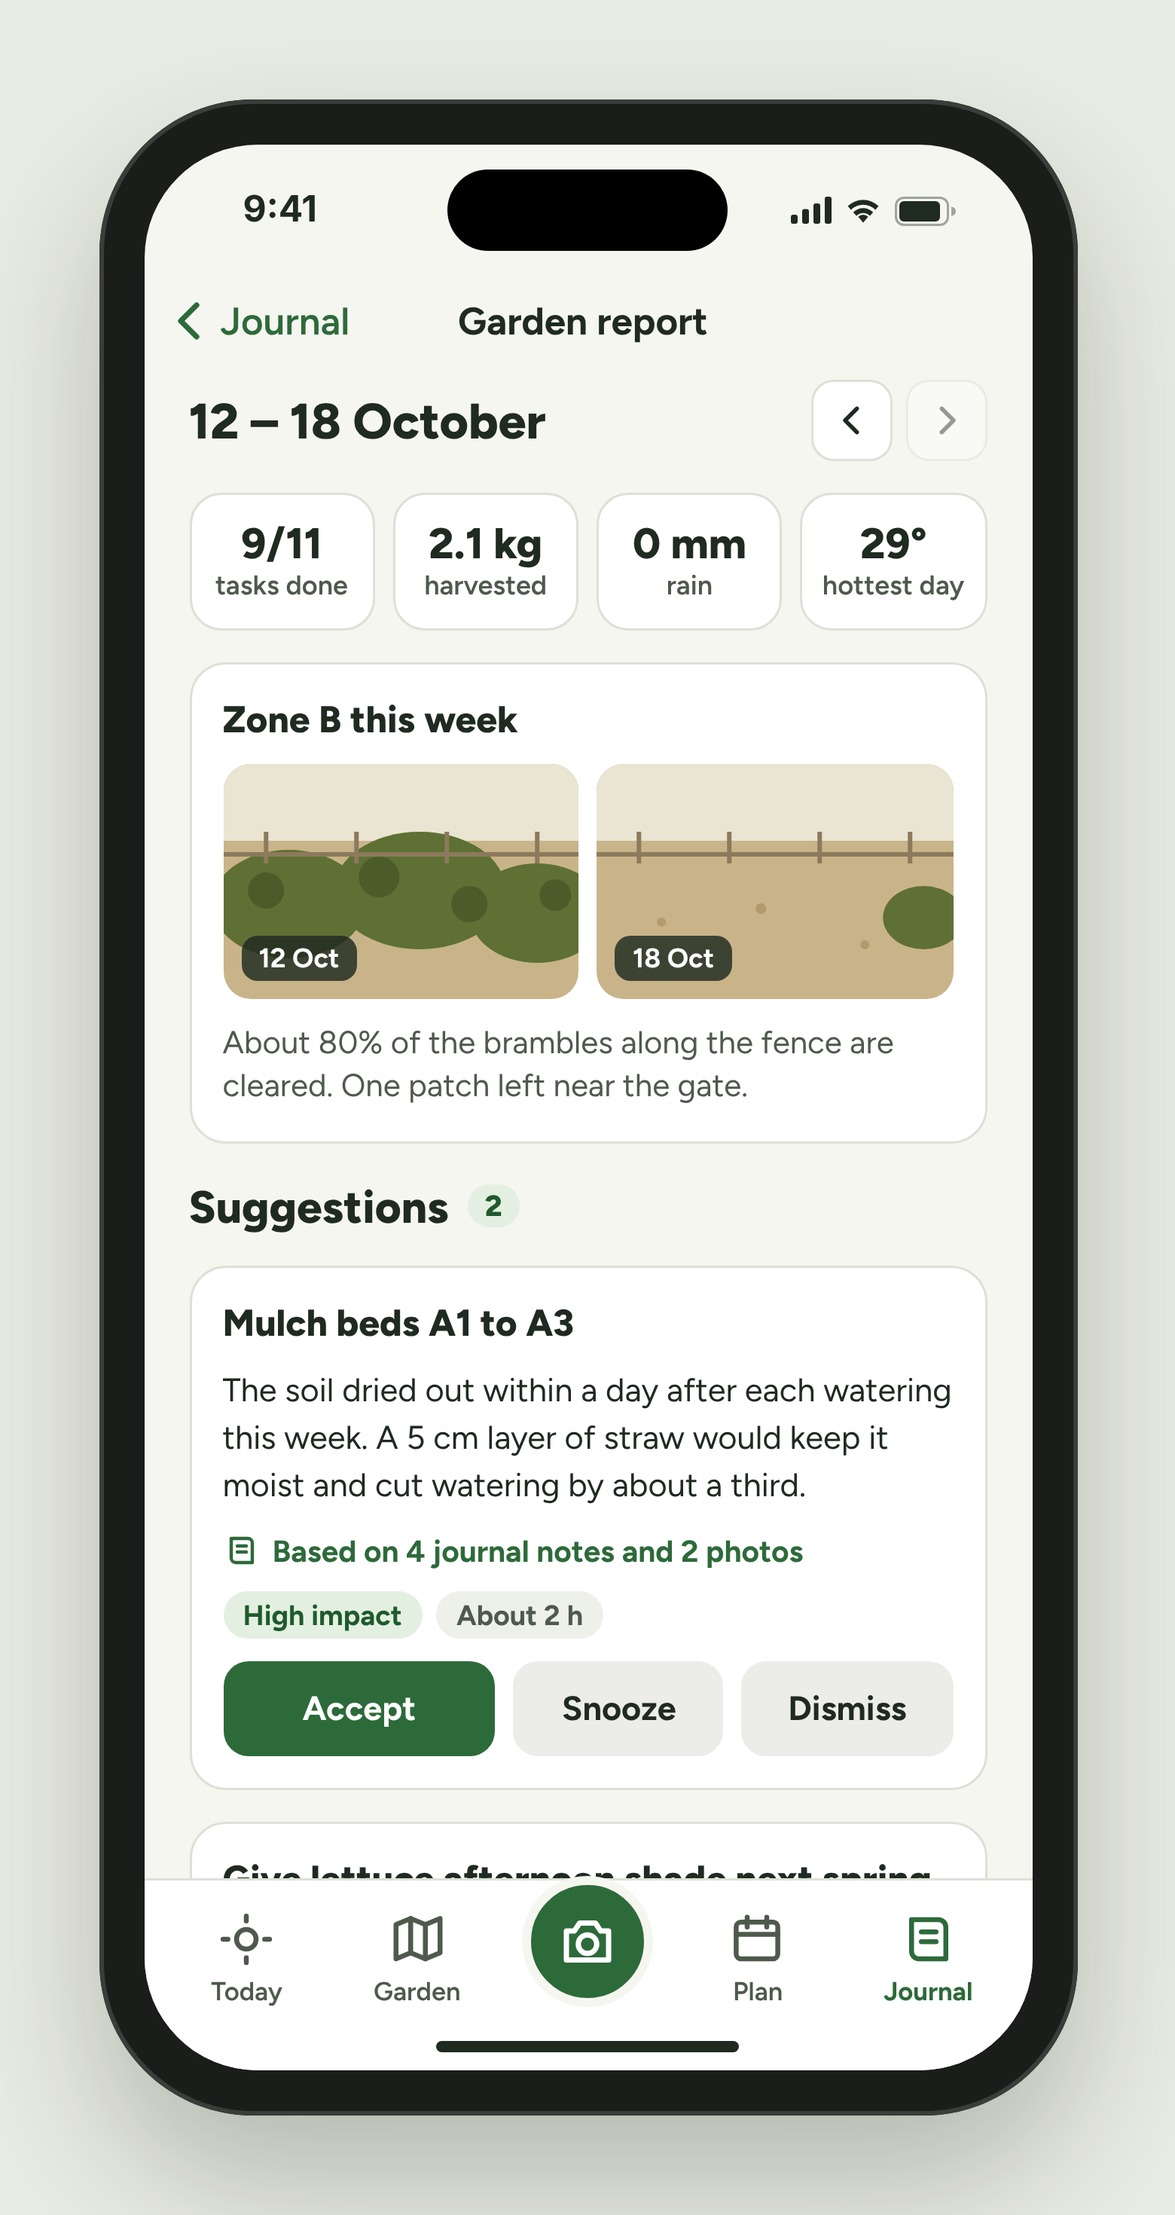
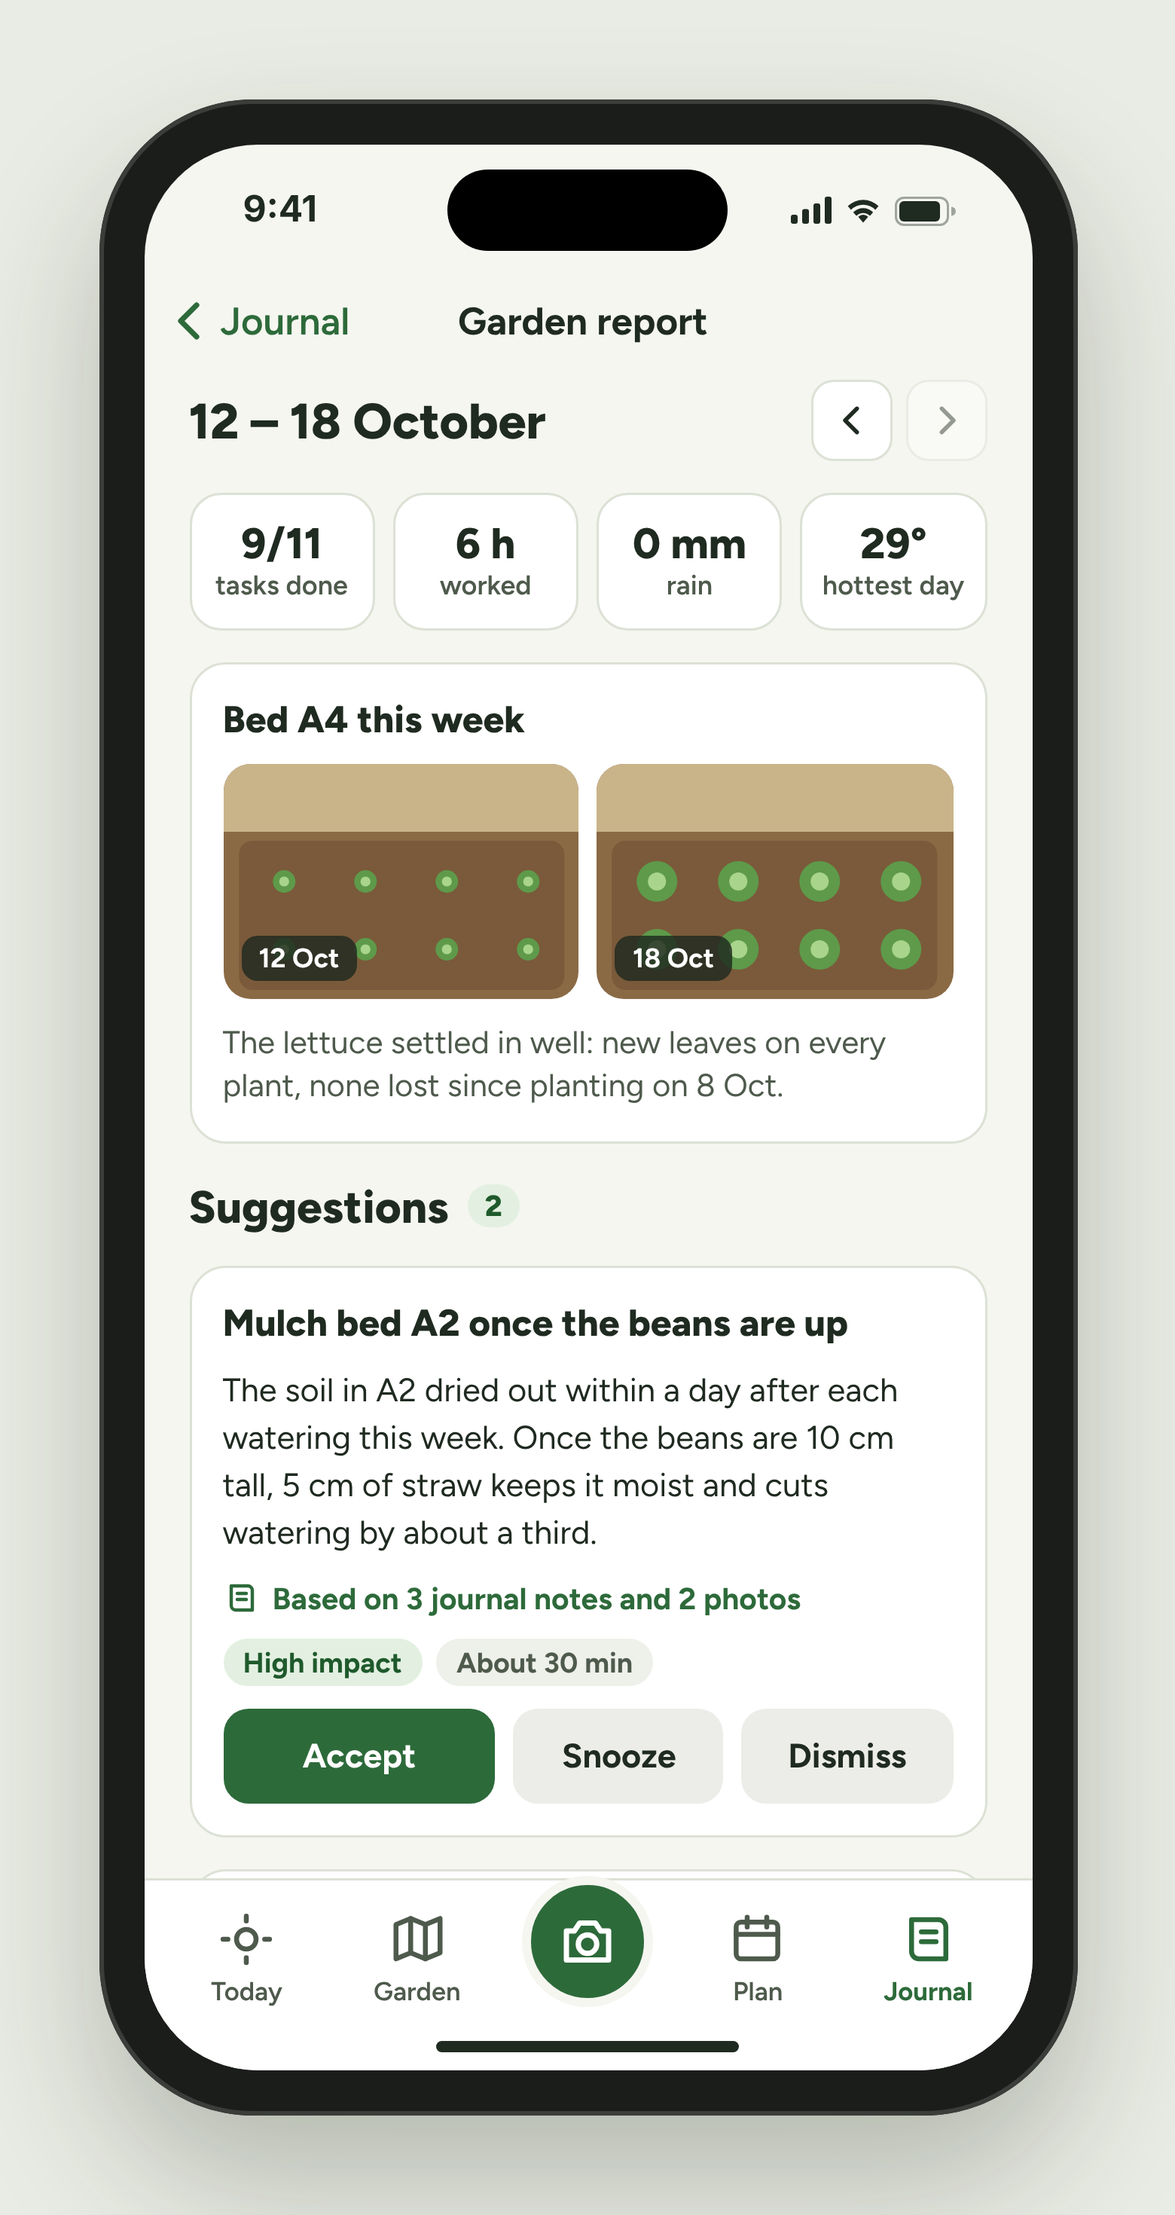
Design F4 garden report: week matches the garden (bed A4 photos, no harvest yet), suggestions with evidence
Claude-Session: https://claude.ai/code/session_015NynAjU4naPZwzmeuGazot

diff --git a/design/source/F4-garden-report-full.html b/design/source/F4-garden-report-full.html
@@ -1,0 +1,123 @@
+<!doctype html>
+<html lang="en">
+<head>
+<meta charset="utf-8">
+<title>F4 Garden report</title>
+<link href="https://fonts.googleapis.com/css2?family=Figtree:wght@400;500;600;700;800&display=swap" rel="stylesheet">
+<link rel="stylesheet" href="frame.css">
+<style>
+  .nav { flex: none; height: 48px; display: flex; align-items: center; justify-content: space-between; padding: 0 12px 0 8px; }
+  .back { display: flex; align-items: center; gap: 2px; color: var(--green); font-size: 17px; font-weight: 600; min-height: 44px; width: 96px; }
+  .nav b { font-size: 17px; font-weight: 700; }
+  .navr { width: 96px; display: flex; justify-content: flex-end; }
+  .body { flex: 1; overflow: hidden; padding: 2px 20px 0; display: flex; flex-direction: column; gap: 14px; }
+  .body > * { flex: none; }
+  .week { display: flex; justify-content: space-between; align-items: center; }
+  .week b { font-size: 22px; font-weight: 800; }
+  .arrows { display: flex; gap: 6px; }
+  .arrows span { width: 36px; height: 36px; border-radius: 10px; background: #fff; border: 1px solid var(--line); display: flex; align-items: center; justify-content: center; }
+  .stats { display: grid; grid-template-columns: repeat(4, minmax(0, 1fr)); gap: 8px; }
+  .stat { background: #fff; border: 1px solid var(--line); border-radius: 14px; padding: 10px 8px; text-align: center; }
+  .stat b { display: block; font-size: 19px; font-weight: 800; }
+  .stat span { font-size: 12px; color: var(--muted); font-weight: 600; line-height: 1.3; display: block; }
+  .card { background: #fff; border: 1px solid var(--line); border-radius: 16px; padding: 14px; display: flex; flex-direction: column; gap: 10px; }
+  .card h3 { margin: 0; font-size: 16.5px; font-weight: 800; }
+  .pair { display: grid; grid-template-columns: repeat(2, minmax(0, 1fr)); gap: 8px; }
+  .ph { border-radius: 12px; overflow: hidden; position: relative; height: 104px; }
+  .ph span { position: absolute; left: 8px; bottom: 8px; background: rgba(31,42,32,.82); color: #fff; font-size: 12px; font-weight: 700; padding: 3px 8px; border-radius: 7px; }
+  .cap { font-size: 14px; color: var(--muted); line-height: 1.4; margin: 0; }
+  h2 { margin: 2px 0 0; font-size: 20px; font-weight: 800; display: flex; align-items: center; gap: 8px; }
+  .count { font-size: 13px; font-weight: 800; background: var(--green-soft); color: var(--green-ink); border-radius: 999px; padding: 2px 8px; }
+  .sug .why { font-size: 14.5px; color: var(--text); line-height: 1.45; margin: 0; }
+  .ev { display: flex; align-items: center; gap: 6px; font-size: 13.5px; font-weight: 700; color: var(--green); }
+  .tags { display: flex; gap: 6px; }
+  .tag { font-size: 12.5px; font-weight: 700; padding: 3px 9px; border-radius: 999px; background: #EEF0EA; color: var(--muted); }
+  .tag.hi { background: var(--green-soft); color: var(--green-ink); }
+  .acts { display: grid; grid-template-columns: 1.3fr 1fr 1fr; gap: 8px; }
+  .acts span { height: 42px; border-radius: 11px; display: flex; align-items: center; justify-content: center; font-size: 15px; font-weight: 700; background: #ECEDE8; }
+  .acts span.ok { background: var(--green); color: #fff; }
+  .tabbar { position: relative; z-index: 30; flex: none; background: #fff; border-top: 1px solid var(--line); padding: 8px 8px 28px; display: grid; grid-template-columns: repeat(5, minmax(0, 1fr)); align-items: end; }
+  .tab { color: var(--muted); display: flex; flex-direction: column; align-items: center; gap: 3px; font-size: 11.5px; font-weight: 600; min-height: 48px; justify-content: flex-end; }
+  .tab.on { color: var(--green); font-weight: 700; }
+  .cam { display: flex; justify-content: center; }
+  .cam span { width: 58px; height: 58px; border-radius: 999px; background: var(--green); display: flex; align-items: center; justify-content: center; margin-top: -22px; border: 4px solid var(--bg); }
+</style>
+<style>.stage{height:1220px}.phone{height:1160px}.screen{height:1120px}</style>
+</head>
+<body>
+<div class="stage"><div class="phone"><div class="screen">
+  <div class="island"></div>
+  <div class="status">
+    <span>9:41</span>
+    <span class="icons">
+      <svg width="18" height="12" viewBox="0 0 18 12"><rect x="0" y="8" width="3" height="4" rx="1" fill="#1F2A20"/><rect x="5" y="5.5" width="3" height="6.5" rx="1" fill="#1F2A20"/><rect x="10" y="3" width="3" height="9" rx="1" fill="#1F2A20"/><rect x="15" y="0" width="3" height="12" rx="1" fill="#1F2A20"/></svg>
+      <svg width="16" height="12" viewBox="0 0 16 12"><path d="M8 11.5l2.2-2.6a3.2 3.2 0 0 0-4.4 0z" fill="#1F2A20"/><path d="M3.6 6.9a6.3 6.3 0 0 1 8.8 0l-1.4 1.6a4.2 4.2 0 0 0-6 0z" fill="#1F2A20"/><path d="M1.2 4.2a9.7 9.7 0 0 1 13.6 0l-1.4 1.6a7.6 7.6 0 0 0-10.8 0z" fill="#1F2A20"/></svg>
+      <svg width="27" height="13" viewBox="0 0 27 13"><rect x="0.5" y="0.5" width="23" height="12" rx="3.5" fill="none" stroke="#1F2A20" opacity=".4"/><rect x="2" y="2" width="18" height="9" rx="2" fill="#1F2A20"/><path d="M25 4.5v4a2 2 0 0 0 0-4z" fill="#1F2A20" opacity=".4"/></svg>
+    </span>
+  </div>
+
+  <div class="nav">
+    <span class="back"><svg width="24" height="24" viewBox="0 0 24 24" fill="none" stroke="#2D6A3A" stroke-width="2.4" stroke-linecap="round" stroke-linejoin="round"><path d="M15 5l-7 7 7 7"/></svg>Journal</span>
+    <b>Garden report</b>
+    <span class="navr"></span>
+  </div>
+
+  <div class="body">
+    <div class="week">
+      <b>12 – 18 October</b>
+      <div class="arrows">
+        <span><svg width="18" height="18" viewBox="0 0 24 24" fill="none" stroke="#1F2A20" stroke-width="2.4" stroke-linecap="round" stroke-linejoin="round"><path d="M15 5l-7 7 7 7"/></svg></span>
+        <span style="opacity:.45"><svg width="18" height="18" viewBox="0 0 24 24" fill="none" stroke="#1F2A20" stroke-width="2.4" stroke-linecap="round" stroke-linejoin="round"><path d="M9 5l7 7-7 7"/></svg></span>
+      </div>
+    </div>
+
+    <div class="stats">
+      <div class="stat"><b>9/11</b><span>tasks done</span></div>
+      <div class="stat"><b>6 h</b><span>worked</span></div>
+      <div class="stat"><b>0 mm</b><span>rain</span></div>
+      <div class="stat"><b>29°</b><span>hottest day</span></div>
+    </div>
+
+    <div class="card">
+      <h3>Bed A4 this week</h3>
+      <div class="pair">
+        <div class="ph">
+          <svg width="100%" height="104" viewBox="0 0 160 104" preserveAspectRatio="xMidYMid slice"><rect width="160" height="104" fill="#8A6A45"/><rect y="0" width="160" height="30" fill="#C9B48A"/><rect x="8" y="34" width="144" height="66" rx="6" fill="#7A5A3A"/><g transform="translate(28 52)"><circle r="5" fill="#5E9A4A"/><circle r="2.2" fill="#A9D48C"/></g><g transform="translate(28 82)"><circle r="5" fill="#5E9A4A"/><circle r="2.2" fill="#A9D48C"/></g><g transform="translate(64 52)"><circle r="5" fill="#5E9A4A"/><circle r="2.2" fill="#A9D48C"/></g><g transform="translate(64 82)"><circle r="5" fill="#5E9A4A"/><circle r="2.2" fill="#A9D48C"/></g><g transform="translate(100 52)"><circle r="5" fill="#5E9A4A"/><circle r="2.2" fill="#A9D48C"/></g><g transform="translate(100 82)"><circle r="5" fill="#5E9A4A"/><circle r="2.2" fill="#A9D48C"/></g><g transform="translate(136 52)"><circle r="5" fill="#5E9A4A"/><circle r="2.2" fill="#A9D48C"/></g><g transform="translate(136 82)"><circle r="5" fill="#5E9A4A"/><circle r="2.2" fill="#A9D48C"/></g></svg>
+          <span>12 Oct</span>
+        </div>
+        <div class="ph">
+          <svg width="100%" height="104" viewBox="0 0 160 104" preserveAspectRatio="xMidYMid slice"><rect width="160" height="104" fill="#8A6A45"/><rect y="0" width="160" height="30" fill="#C9B48A"/><rect x="8" y="34" width="144" height="66" rx="6" fill="#7A5A3A"/><g transform="translate(28 52)"><circle r="9" fill="#5E9A4A"/><circle r="4.0" fill="#A9D48C"/></g><g transform="translate(28 82)"><circle r="9" fill="#5E9A4A"/><circle r="4.0" fill="#A9D48C"/></g><g transform="translate(64 52)"><circle r="9" fill="#5E9A4A"/><circle r="4.0" fill="#A9D48C"/></g><g transform="translate(64 82)"><circle r="9" fill="#5E9A4A"/><circle r="4.0" fill="#A9D48C"/></g><g transform="translate(100 52)"><circle r="9" fill="#5E9A4A"/><circle r="4.0" fill="#A9D48C"/></g><g transform="translate(100 82)"><circle r="9" fill="#5E9A4A"/><circle r="4.0" fill="#A9D48C"/></g><g transform="translate(136 52)"><circle r="9" fill="#5E9A4A"/><circle r="4.0" fill="#A9D48C"/></g><g transform="translate(136 82)"><circle r="9" fill="#5E9A4A"/><circle r="4.0" fill="#A9D48C"/></g></svg>
+          <span>18 Oct</span>
+        </div>
+      </div>
+      <p class="cap">The lettuce settled in well: new leaves on every plant, none lost since planting on 8 Oct.</p>
+    </div>
+
+    <h2>Suggestions <span class="count">2</span></h2>
+    <div class="card sug">
+      <h3>Mulch bed A2 once the beans are up</h3>
+      <p class="why">The soil in A2 dried out within a day after each watering this week. Once the beans are 10 cm tall, 5 cm of straw keeps it moist and cuts watering by about a third.</p>
+      <span class="ev"><svg width="16" height="16" viewBox="0 0 24 24" fill="none" stroke="#2D6A3A" stroke-width="2.2" stroke-linecap="round" stroke-linejoin="round"><path d="M5 4h11a3 3 0 0 1 3 3v13H8a3 3 0 0 1-3-3z"/><path d="M9 9h6M9 13h6"/></svg>Based on 3 journal notes and 2 photos</span>
+      <div class="tags"><span class="tag hi">High impact</span><span class="tag">About 30 min</span></div>
+      <div class="acts"><span class="ok">Accept</span><span>Snooze</span><span>Dismiss</span></div>
+    </div>
+    <div class="card sug">
+      <h3>Shade new seedlings on hot afternoons</h3>
+      <p class="why">It reached 29° on Wednesday and the lettuce in A4 wilted by mid-afternoon twice. A light shade cloth for the hottest hours helps new plants settle.</p>
+      <span class="ev"><svg width="16" height="16" viewBox="0 0 24 24" fill="none" stroke="#2D6A3A" stroke-width="2.2" stroke-linecap="round" stroke-linejoin="round"><path d="M5 4h11a3 3 0 0 1 3 3v13H8a3 3 0 0 1-3-3z"/><path d="M9 9h6M9 13h6"/></svg>Based on the weather and 2 journal notes</span>
+      <div class="tags"><span class="tag">Medium impact</span><span class="tag">About 15 min</span></div>
+      <div class="acts"><span class="ok">Accept</span><span>Snooze</span><span>Dismiss</span></div>
+    </div>
+  </div>
+
+  <nav class="tabbar">
+    <span class="tab"><svg width="26" height="26" viewBox="0 0 24 24" fill="none" stroke="currentColor" stroke-width="2" stroke-linecap="round" stroke-linejoin="round"><circle cx="12" cy="12" r="4"/><path d="M12 2.5v2M12 19.5v2M2.5 12h2M19.5 12h2"/></svg>Today</span>
+    <span class="tab"><svg width="26" height="26" viewBox="0 0 24 24" fill="none" stroke="currentColor" stroke-width="2" stroke-linecap="round" stroke-linejoin="round"><path d="M3 6l6-2.5 6 2.5 6-2.5v14l-6 2.5-6-2.5-6 2.5z"/><path d="M9 3.5v14M15 6v14"/></svg>Garden</span>
+    <span class="cam"><span><svg width="28" height="28" viewBox="0 0 24 24" fill="none" stroke="#fff" stroke-width="2" stroke-linecap="round" stroke-linejoin="round"><path d="M4 8h3l2-3h6l2 3h3v11H4z"/><circle cx="12" cy="13" r="3.5"/></svg></span></span>
+    <span class="tab"><svg width="26" height="26" viewBox="0 0 24 24" fill="none" stroke="currentColor" stroke-width="2" stroke-linecap="round" stroke-linejoin="round"><rect x="3.5" y="5" width="17" height="15" rx="2"/><path d="M3.5 10h17M8 3v4M16 3v4"/></svg>Plan</span>
+    <span class="tab on"><svg width="26" height="26" viewBox="0 0 24 24" fill="none" stroke="currentColor" stroke-width="2" stroke-linecap="round" stroke-linejoin="round"><path d="M5 4h11a3 3 0 0 1 3 3v13H8a3 3 0 0 1-3-3z"/><path d="M9 9h6M9 13h6"/></svg>Journal</span>
+  </nav>
+  <div class="home"></div>
+</div></div></div>
+</body>
+</html>

diff --git a/design/source/F4-garden-report.html b/design/source/F4-garden-report.html
@@ -72,37 +72,40 @@
 
     <div class="stats">
       <div class="stat"><b>9/11</b><span>tasks done</span></div>
-      <div class="stat"><b>2.1 kg</b><span>harvested</span></div>
+      <div class="stat"><b>6 h</b><span>worked</span></div>
       <div class="stat"><b>0 mm</b><span>rain</span></div>
       <div class="stat"><b>29°</b><span>hottest day</span></div>
     </div>
 
     <div class="card">
-      <h3>Zone B this week</h3>
+      <h3>Bed A4 this week</h3>
       <div class="pair">
         <div class="ph">
-          <svg width="100%" height="104" viewBox="0 0 160 104" preserveAspectRatio="xMidYMid slice"><rect width="160" height="104" fill="#C9B48A"/><rect y="0" width="160" height="34" fill="#EAE4D2"/><g fill="#5E7034"><ellipse cx="30" cy="62" rx="34" ry="24"/><ellipse cx="88" cy="56" rx="38" ry="26"/><ellipse cx="140" cy="66" rx="30" ry="22"/></g><g fill="#4B5B2A"><circle cx="20" cy="56" r="8"/><circle cx="70" cy="50" r="9"/><circle cx="110" cy="62" r="8"/><circle cx="148" cy="58" r="7"/></g><path d="M0 40 H160" stroke="#8C7A5C" stroke-width="2"/><g stroke="#8C7A5C" stroke-width="2"><path d="M20 30 V44"/><path d="M60 30 V44"/><path d="M100 30 V44"/><path d="M140 30 V44"/></g></svg>
+          <svg width="100%" height="104" viewBox="0 0 160 104" preserveAspectRatio="xMidYMid slice"><rect width="160" height="104" fill="#8A6A45"/><rect y="0" width="160" height="30" fill="#C9B48A"/><rect x="8" y="34" width="144" height="66" rx="6" fill="#7A5A3A"/><g transform="translate(28 52)"><circle r="5" fill="#5E9A4A"/><circle r="2.2" fill="#A9D48C"/></g><g transform="translate(28 82)"><circle r="5" fill="#5E9A4A"/><circle r="2.2" fill="#A9D48C"/></g><g transform="translate(64 52)"><circle r="5" fill="#5E9A4A"/><circle r="2.2" fill="#A9D48C"/></g><g transform="translate(64 82)"><circle r="5" fill="#5E9A4A"/><circle r="2.2" fill="#A9D48C"/></g><g transform="translate(100 52)"><circle r="5" fill="#5E9A4A"/><circle r="2.2" fill="#A9D48C"/></g><g transform="translate(100 82)"><circle r="5" fill="#5E9A4A"/><circle r="2.2" fill="#A9D48C"/></g><g transform="translate(136 52)"><circle r="5" fill="#5E9A4A"/><circle r="2.2" fill="#A9D48C"/></g><g transform="translate(136 82)"><circle r="5" fill="#5E9A4A"/><circle r="2.2" fill="#A9D48C"/></g></svg>
           <span>12 Oct</span>
         </div>
         <div class="ph">
-          <svg width="100%" height="104" viewBox="0 0 160 104" preserveAspectRatio="xMidYMid slice"><rect width="160" height="104" fill="#C9B48A"/><rect y="0" width="160" height="34" fill="#EAE4D2"/><g fill="#B39A6C"><circle cx="30" cy="70" r="2"/><circle cx="74" cy="64" r="2.4"/><circle cx="120" cy="80" r="2"/><circle cx="50" cy="88" r="1.8"/></g><g fill="#5E7034"><ellipse cx="146" cy="68" rx="18" ry="14"/></g><path d="M0 40 H160" stroke="#8C7A5C" stroke-width="2"/><g stroke="#8C7A5C" stroke-width="2"><path d="M20 30 V44"/><path d="M60 30 V44"/><path d="M100 30 V44"/><path d="M140 30 V44"/></g></svg>
+          <svg width="100%" height="104" viewBox="0 0 160 104" preserveAspectRatio="xMidYMid slice"><rect width="160" height="104" fill="#8A6A45"/><rect y="0" width="160" height="30" fill="#C9B48A"/><rect x="8" y="34" width="144" height="66" rx="6" fill="#7A5A3A"/><g transform="translate(28 52)"><circle r="9" fill="#5E9A4A"/><circle r="4.0" fill="#A9D48C"/></g><g transform="translate(28 82)"><circle r="9" fill="#5E9A4A"/><circle r="4.0" fill="#A9D48C"/></g><g transform="translate(64 52)"><circle r="9" fill="#5E9A4A"/><circle r="4.0" fill="#A9D48C"/></g><g transform="translate(64 82)"><circle r="9" fill="#5E9A4A"/><circle r="4.0" fill="#A9D48C"/></g><g transform="translate(100 52)"><circle r="9" fill="#5E9A4A"/><circle r="4.0" fill="#A9D48C"/></g><g transform="translate(100 82)"><circle r="9" fill="#5E9A4A"/><circle r="4.0" fill="#A9D48C"/></g><g transform="translate(136 52)"><circle r="9" fill="#5E9A4A"/><circle r="4.0" fill="#A9D48C"/></g><g transform="translate(136 82)"><circle r="9" fill="#5E9A4A"/><circle r="4.0" fill="#A9D48C"/></g></svg>
           <span>18 Oct</span>
         </div>
       </div>
-      <p class="cap">About 80% of the brambles along the fence are cleared. One patch left near the gate.</p>
+      <p class="cap">The lettuce settled in well: new leaves on every plant, none lost since planting on 8 Oct.</p>
     </div>
 
     <h2>Suggestions <span class="count">2</span></h2>
     <div class="card sug">
-      <h3>Mulch beds A1 to A3</h3>
-      <p class="why">The soil dried out within a day after each watering this week. A 5 cm layer of straw would keep it moist and cut watering by about a third.</p>
-      <span class="ev"><svg width="16" height="16" viewBox="0 0 24 24" fill="none" stroke="#2D6A3A" stroke-width="2.2" stroke-linecap="round" stroke-linejoin="round"><path d="M5 4h11a3 3 0 0 1 3 3v13H8a3 3 0 0 1-3-3z"/><path d="M9 9h6M9 13h6"/></svg>Based on 4 journal notes and 2 photos</span>
-      <div class="tags"><span class="tag hi">High impact</span><span class="tag">About 2 h</span></div>
+      <h3>Mulch bed A2 once the beans are up</h3>
+      <p class="why">The soil in A2 dried out within a day after each watering this week. Once the beans are 10 cm tall, 5 cm of straw keeps it moist and cuts watering by about a third.</p>
+      <span class="ev"><svg width="16" height="16" viewBox="0 0 24 24" fill="none" stroke="#2D6A3A" stroke-width="2.2" stroke-linecap="round" stroke-linejoin="round"><path d="M5 4h11a3 3 0 0 1 3 3v13H8a3 3 0 0 1-3-3z"/><path d="M9 9h6M9 13h6"/></svg>Based on 3 journal notes and 2 photos</span>
+      <div class="tags"><span class="tag hi">High impact</span><span class="tag">About 30 min</span></div>
       <div class="acts"><span class="ok">Accept</span><span>Snooze</span><span>Dismiss</span></div>
     </div>
     <div class="card sug">
-      <h3>Give lettuce afternoon shade next spring</h3>
-      <p class="why">Two lettuce sowings went to seed early in bed A1, which gets full afternoon sun.</p>
+      <h3>Shade new seedlings on hot afternoons</h3>
+      <p class="why">It reached 29° on Wednesday and the lettuce in A4 wilted by mid-afternoon twice. A light shade cloth for the hottest hours helps new plants settle.</p>
+      <span class="ev"><svg width="16" height="16" viewBox="0 0 24 24" fill="none" stroke="#2D6A3A" stroke-width="2.2" stroke-linecap="round" stroke-linejoin="round"><path d="M5 4h11a3 3 0 0 1 3 3v13H8a3 3 0 0 1-3-3z"/><path d="M9 9h6M9 13h6"/></svg>Based on the weather and 2 journal notes</span>
+      <div class="tags"><span class="tag">Medium impact</span><span class="tag">About 15 min</span></div>
+      <div class="acts"><span class="ok">Accept</span><span>Snooze</span><span>Dismiss</span></div>
     </div>
   </div>
 
